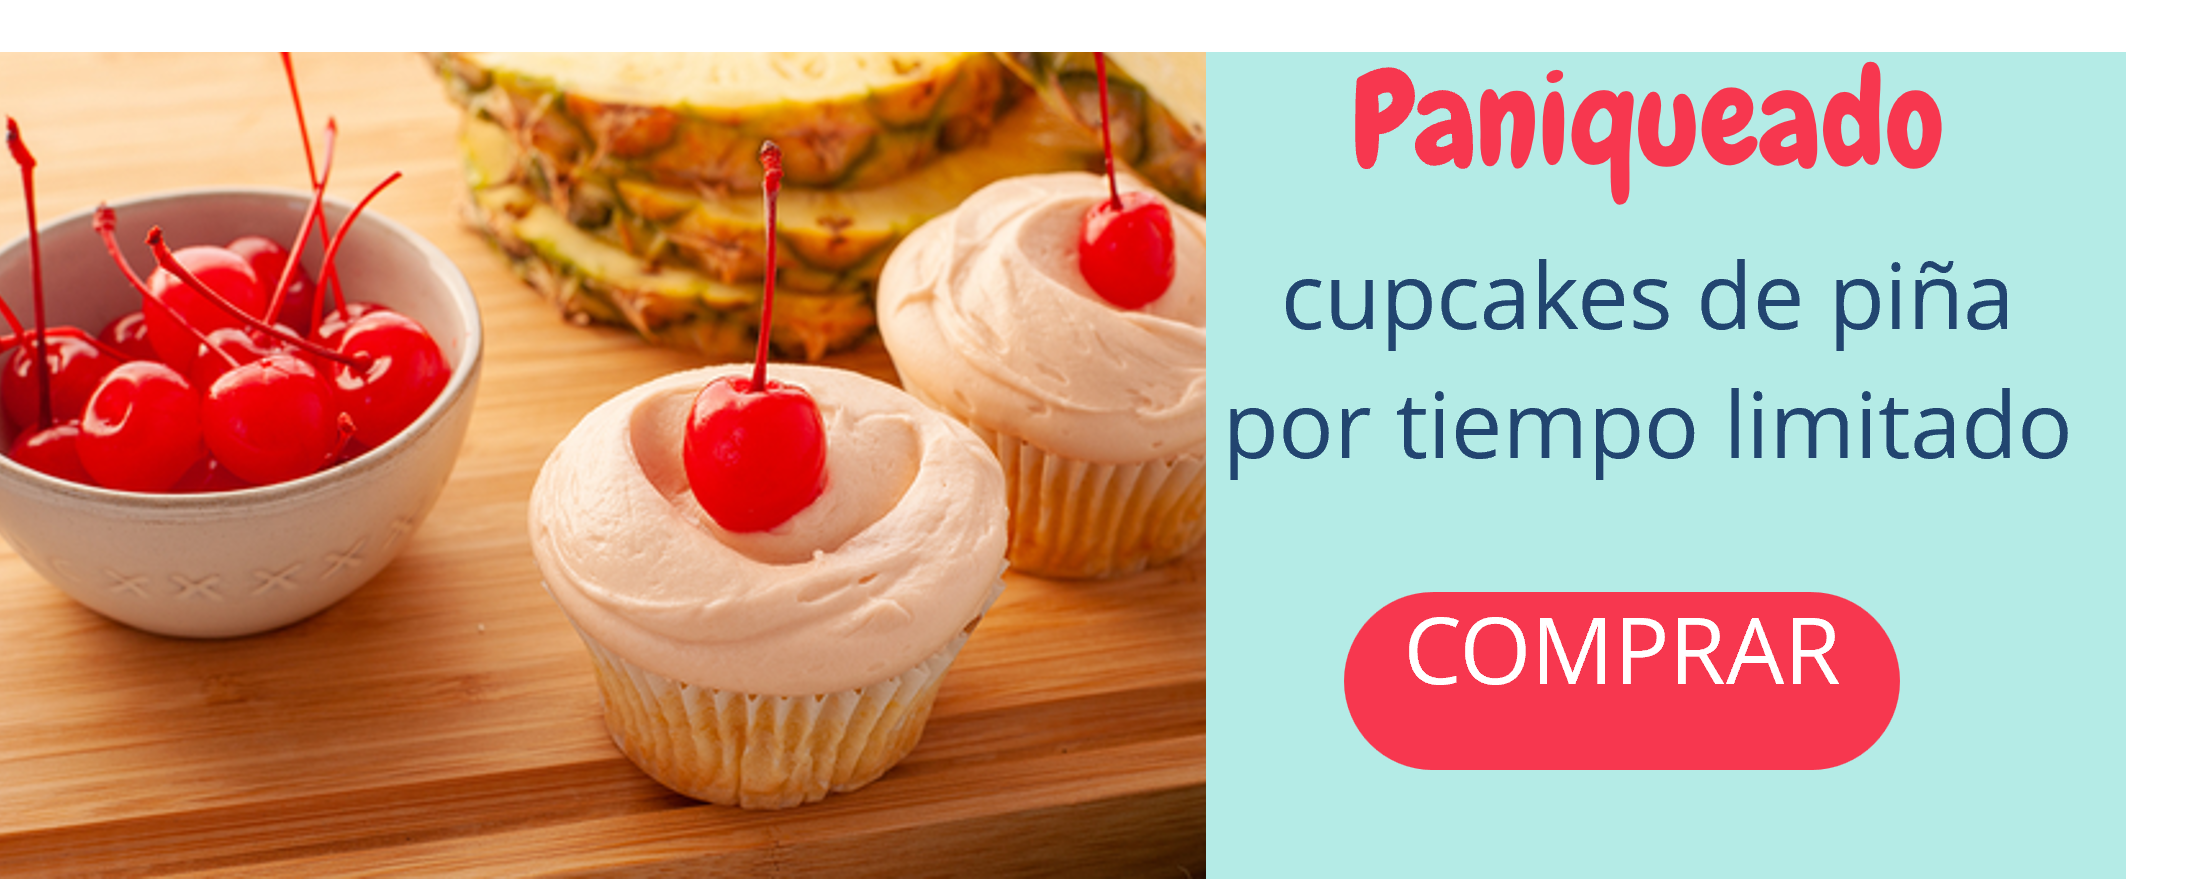
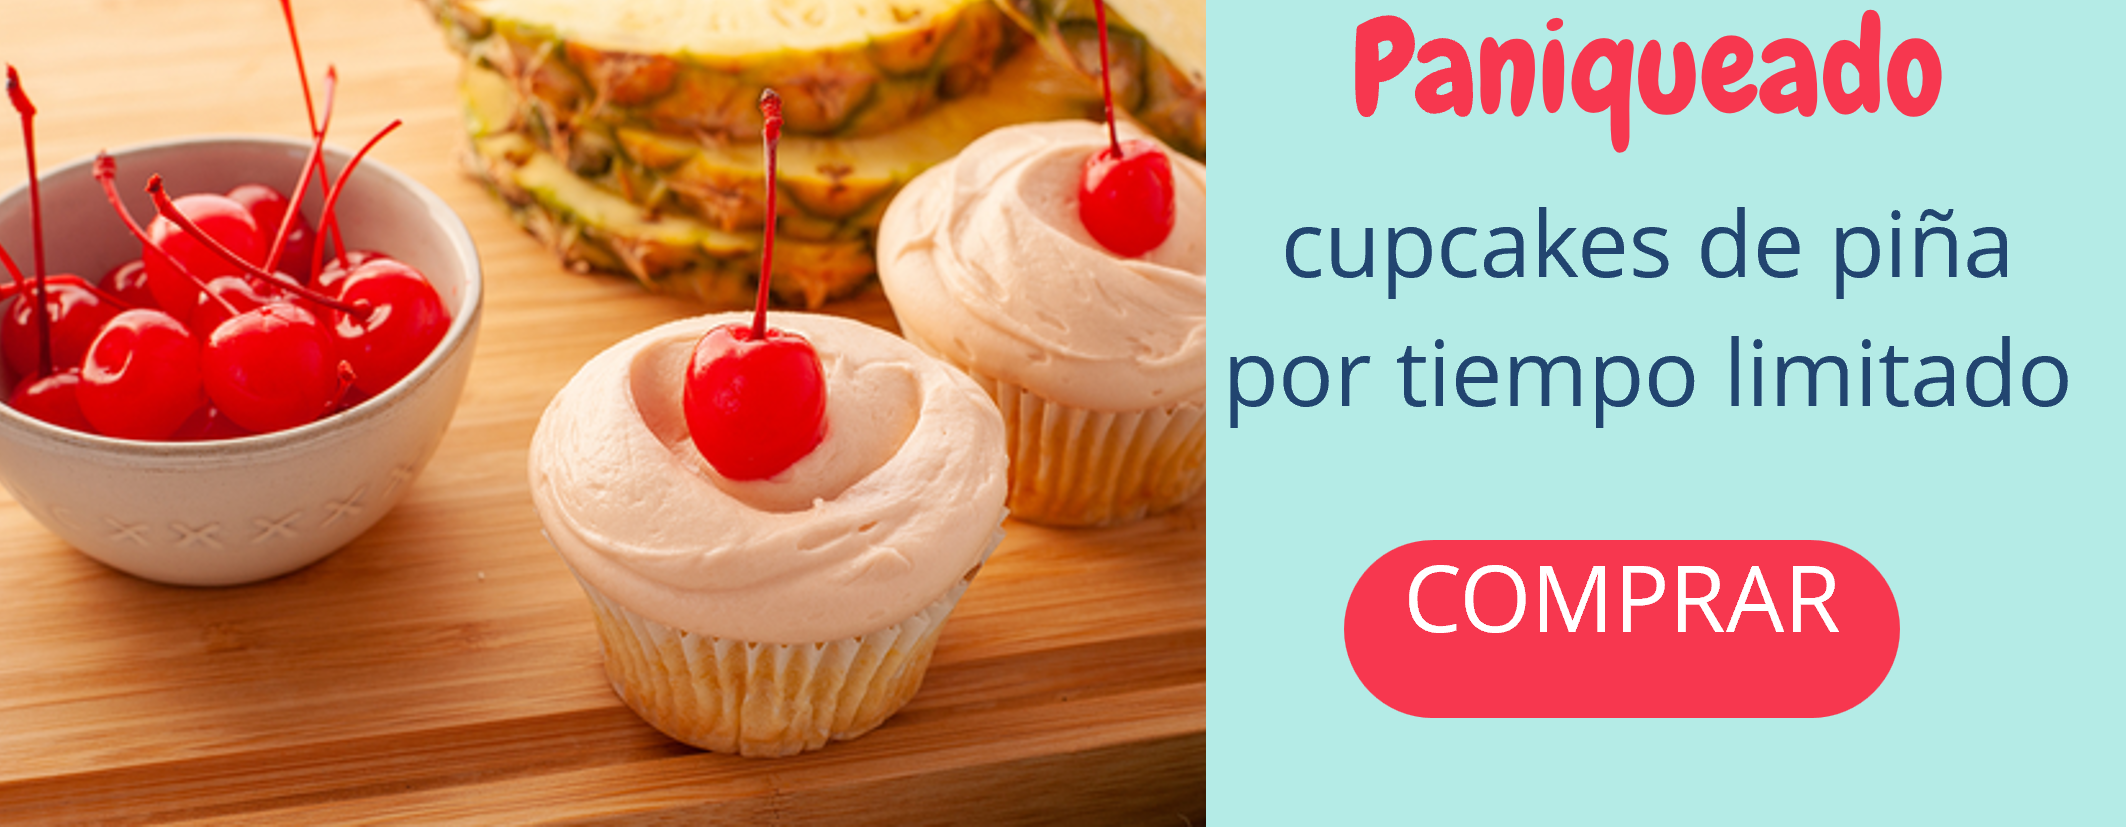
Primer commit

diff --git a/src/app/folder/folder.page.html b/src/app/folder/folder.page.html
@@ -1,7 +1,11 @@
+<!-- Menú Lateral -->
 <ion-menu contentId="main-content">
   <ion-header>
     <ion-toolbar color="primary">
-      <ion-title>Menú</ion-title>
+      <ion-title>
+        <img src="assets/img/logo.png" alt="Logo" class="logo" />
+        Paniqueado
+      </ion-title>
     </ion-toolbar>
   </ion-header>
   <ion-content>
@@ -13,62 +17,40 @@
   </ion-content>
 </ion-menu>
 
-  <ion-header>
-    <ion-toolbar>
-      <ion-buttons slot="start">
-        <ion-menu-button></ion-menu-button>
-      </ion-buttons>
-      <ion-title>Paniqueado</ion-title>
-    </ion-toolbar>
-  </ion-header>
-  
-  <ion-content>
-    <!-- Banner Principal -->
-    <div class="banner">
-      <img src="assets/img/Imagen1.png" alt="Cupcakes de Piña">
-      <div class="banner-text">
-        <h2>Paniqueado</h2>
-        <p>Cupcakes de piña por tiempo limitado</p>
-        <ion-button color="danger">COMPRAR</ion-button>
-      </div>
-    </div>
+<!-- Barra de Navegación Principal -->
+<ion-header>
+  <ion-toolbar>
+    <ion-buttons slot="start">
+      <ion-menu-button></ion-menu-button>
+    </ion-buttons>
+    <ion-title>
+      <img src="assets/img/logo.png" alt="Logo" class="logo" />
+    </ion-title>
+  </ion-toolbar>
+</ion-header>
 
-    <!-- Sección de Productos -->
-    <div class="productos">
-      <h3>SIMPLE. CLÁSICO. DELICIOSO</h3>
-      <div class="productos-grid">
-        <ion-card>
-          <img src="assets/img/Imagen2.png" alt="Cakes">
-          <ion-button color="danger">CAKES</ion-button>
-        </ion-card>
-        <ion-card>
-          <img src="" alt="Cupcakes">
-          <ion-button color="danger">CUPCAKES</ion-button>
-        </ion-card>
-        <ion-card>
-          <img src="" alt="Cookies">
-          <ion-button color="danger">COOKIES</ion-button>
-        </ion-card>
-      </div>
-    </div>
-    
-    <!-- Información adicional -->
-    <div class="info">
-      <ion-grid>
-        <ion-row>
-          <ion-col>
-            <ion-icon name="paper-plane"></ion-icon>
-            <p>Envíos a todo el País</p>
-          </ion-col>
-          <ion-col>
-            <ion-icon name="car"></ion-icon>
-            <p>Entrega local</p>
-          </ion-col>
-          <ion-col>
-            <ion-icon name="storefront"></ion-icon>
-            <p>Tienda</p>
-          </ion-col>
-        </ion-row>
-      </ion-grid>
-    </div>
-  </ion-content>
+<!-- Contenido Principal -->
+<ion-content id="main-content">
+  <!-- Banner Principal -->
+  <div class="banner">
+    <img src="assets/img/Imagen1.png" alt="Cupcakes de Piña" class="banner-img">
+  </div>
+
+  <!-- Slogan -->
+  <div class="slogan-container">
+    <h2 class="slogan">SIMPLE. CLÁSICO. DELICIOSO</h2>
+  </div>
+
+  <!-- Sección de Productos -->
+  <div class="productos">
+    <img src="assets/img/Imagen2.png" alt="Cakes" class="productos-img">
+  </div>
+
+  <div class="divider"></div>
+  <div class="divider"></div>
+  
+  <!-- Información adicional -->
+  <div class="info">
+    <img src="assets/img/Imagen3.png" alt="Cakes" class="info-img">
+  </div>
+</ion-content>

diff --git a/src/app/folder/folder.page.scss b/src/app/folder/folder.page.scss
@@ -1,61 +1,91 @@
+ion-header {
+  --background: white;
+  --color: #007bff; 
+  border: none;
+}
+
+ion-toolbar {
+  --background: white;
+  --color: #007bff;
+  border: none;
+}
+
+ion-title {
+  color: #333; 
+  font-size: 1.8rem; 
+  font-weight: bold;
+}
+
 ion-content {
-  --background: #f8f8f8;
+  --background: #fdfdfd;
+  color: #222;
+  padding: 0;
+  margin: 0;
+  padding-top: 20px; /* Espacio entre el contenido y el header */
+  overflow: hidden;
 }
 
 .banner {
   position: relative;
-  text-align: center;
-
-  img {
-    width: 100%;
-    border-radius: 10px;
-  }
-
-  .banner-text {
-    position: absolute;
-    top: 50%;
-    left: 50%;
-    transform: translate(-50%, -50%);
-    color: white;
-    font-size: 1.5rem;
-    font-weight: bold;
-    text-shadow: 2px 2px 4px rgba(0, 0, 0, 0.5);
-  }
+  margin-top: 20px;
+  width: 100%;
+  overflow: hidden;
 }
 
-.productos-grid {
-  display: flex;
-  flex-wrap: wrap;
-  justify-content: space-around;
-  padding: 1rem;
+.banner-img {
+  width: 100%;
+  object-fit: cover;
+  object-position: center;
+}
 
-  ion-card {
-    width: 45%;
-    margin-bottom: 1rem;
+.banner-text {
+  position: absolute;
+  bottom: 20px;
+  left: 20px;
+  color: white;
+  font-size: 24px;
+}
 
-    img {
-      width: 100%;
-      border-top-left-radius: 10px;
-      border-top-right-radius: 10px;
-    }
+.slogan {
+  color: #406ba0;
+  font-size: 1.2rem;
+  font-weight: bold;
+  text-align: center;
+  text-transform: uppercase; 
+  letter-spacing: 2px; 
+  margin-top: 50px; 
+  margin-bottom: 25px; 
+  position: relative; 
+}
 
-    ion-card-content {
-      text-align: center;
-    }
-  }
+.logo {
+  width: 60px;
+  height: auto;
+  margin-right: center;
+}
+
+ion-menu-button {
+  color: black;
+}
+
+.productos {
+  margin-bottom: 15px;
 }
 
 .info {
-  text-align: center;
-  padding: 1rem;
+  margin-top: 30px;
+  margin-bottom: 0;
+}
 
-  ion-icon {
-    font-size: 2rem;
-    color: #3880ff;
-  }
+.info-img {
+  width: 100%;
+  display: block;
+}
 
-  p {
-    margin-top: 0.5rem;
-    color: #555;
-  }
+.divider {
+  width: 98%; /* Ocupa todo el ancho disponible */
+  height: 2px; /* Altura de la línea */
+  background-color: #93f5f9; /* Color de la línea, puedes cambiarlo a cualquier color */
+  margin: 10px 0; /* Espacio alrededor de la línea, ajusta según lo necesites */
+  margin-left: 1%;
 }

diff --git a/src/app/app.component.html b/src/app/app.component.html
@@ -1,33 +1,22 @@
 <ion-app>
   <ion-split-pane contentId="main-content">
+    <!-- Menú Lateral -->
     <ion-menu contentId="main-content" type="overlay">
       <ion-content>
         <ion-list id="inbox-list">
-          <ion-list-header>Inbox</ion-list-header>
-          <ion-note>hi&#64;ionicframework.com</ion-note>
+          <ion-list-header>Menú</ion-list-header>
 
-          @for (p of appPages; track p; let i = $index) {
-            <ion-menu-toggle auto-hide="false">
-              <ion-item routerDirection="root" [routerLink]="[p.url]" lines="none" detail="false" routerLinkActive="selected">
-                <ion-icon aria-hidden="true" slot="start" [ios]="p.icon + '-outline'" [md]="p.icon + '-sharp'"></ion-icon>
-                <ion-label>{{ p.title }}</ion-label>
-              </ion-item>
-            </ion-menu-toggle>
-          }
-        </ion-list>
-
-        <ion-list id="labels-list">
-          <ion-list-header>Labels</ion-list-header>
-
-          @for (label of labels; track label) {
-            <ion-item lines="none">
-              <ion-icon aria-hidden="true" slot="start" ios="bookmark-outline" md="bookmark-sharp"></ion-icon>
-              <ion-label>{{ label }}</ion-label>
+          <!-- Menú dinámico, lo que se cargará se define en el array appPages -->
+          <ion-menu-toggle auto-hide="false" *ngFor="let p of appPages">
+            <ion-item routerDirection="root" [routerLink]="[p.url]" lines="none" detail="false" routerLinkActive="selected">
+              <ion-icon aria-hidden="true" slot="start" [ios]="p.icon + '-outline'" [md]="p.icon + '-sharp'"></ion-icon>
+              <ion-label>{{ p.title }}</ion-label>
             </ion-item>
-          }
+          </ion-menu-toggle>
         </ion-list>
       </ion-content>
     </ion-menu>
+
     <ion-router-outlet id="main-content"></ion-router-outlet>
   </ion-split-pane>
 </ion-app>

diff --git a/src/app/app.component.ts b/src/app/app.component.ts
@@ -7,13 +7,12 @@ import { Component } from '@angular/core';
 })
 export class AppComponent {
   public appPages = [
-    { title: 'Inbox', url: '/folder/inbox', icon: 'mail' },
-    { title: 'Outbox', url: '/folder/outbox', icon: 'paper-plane' },
-    { title: 'Favorites', url: '/folder/favorites', icon: 'heart' },
-    { title: 'Archived', url: '/folder/archived', icon: 'archive' },
-    { title: 'Trash', url: '/folder/trash', icon: 'trash' },
-    { title: 'Spam', url: '/folder/spam', icon: 'warning' },
+    { title: 'Inicio', url: '/home', icon: 'home' },
+    { title: 'Nosotros', url: '/nosotros', icon: 'people' },
+    { title: 'Nuestros productos', url: '/productos', icon: 'cart' },
+    { title: 'Nuestras tiendas', url: '/tiendas', icon: 'storefront' },
+    { title: 'Ofertas especiales', url: '/ofertas', icon: 'pricetag' },
+    { title: 'Contacto', url: '/contacto', icon: 'mail' },
   ];
-  public labels = ['Family', 'Friends', 'Notes', 'Work', 'Travel', 'Reminders'];
   constructor() {}
 }
